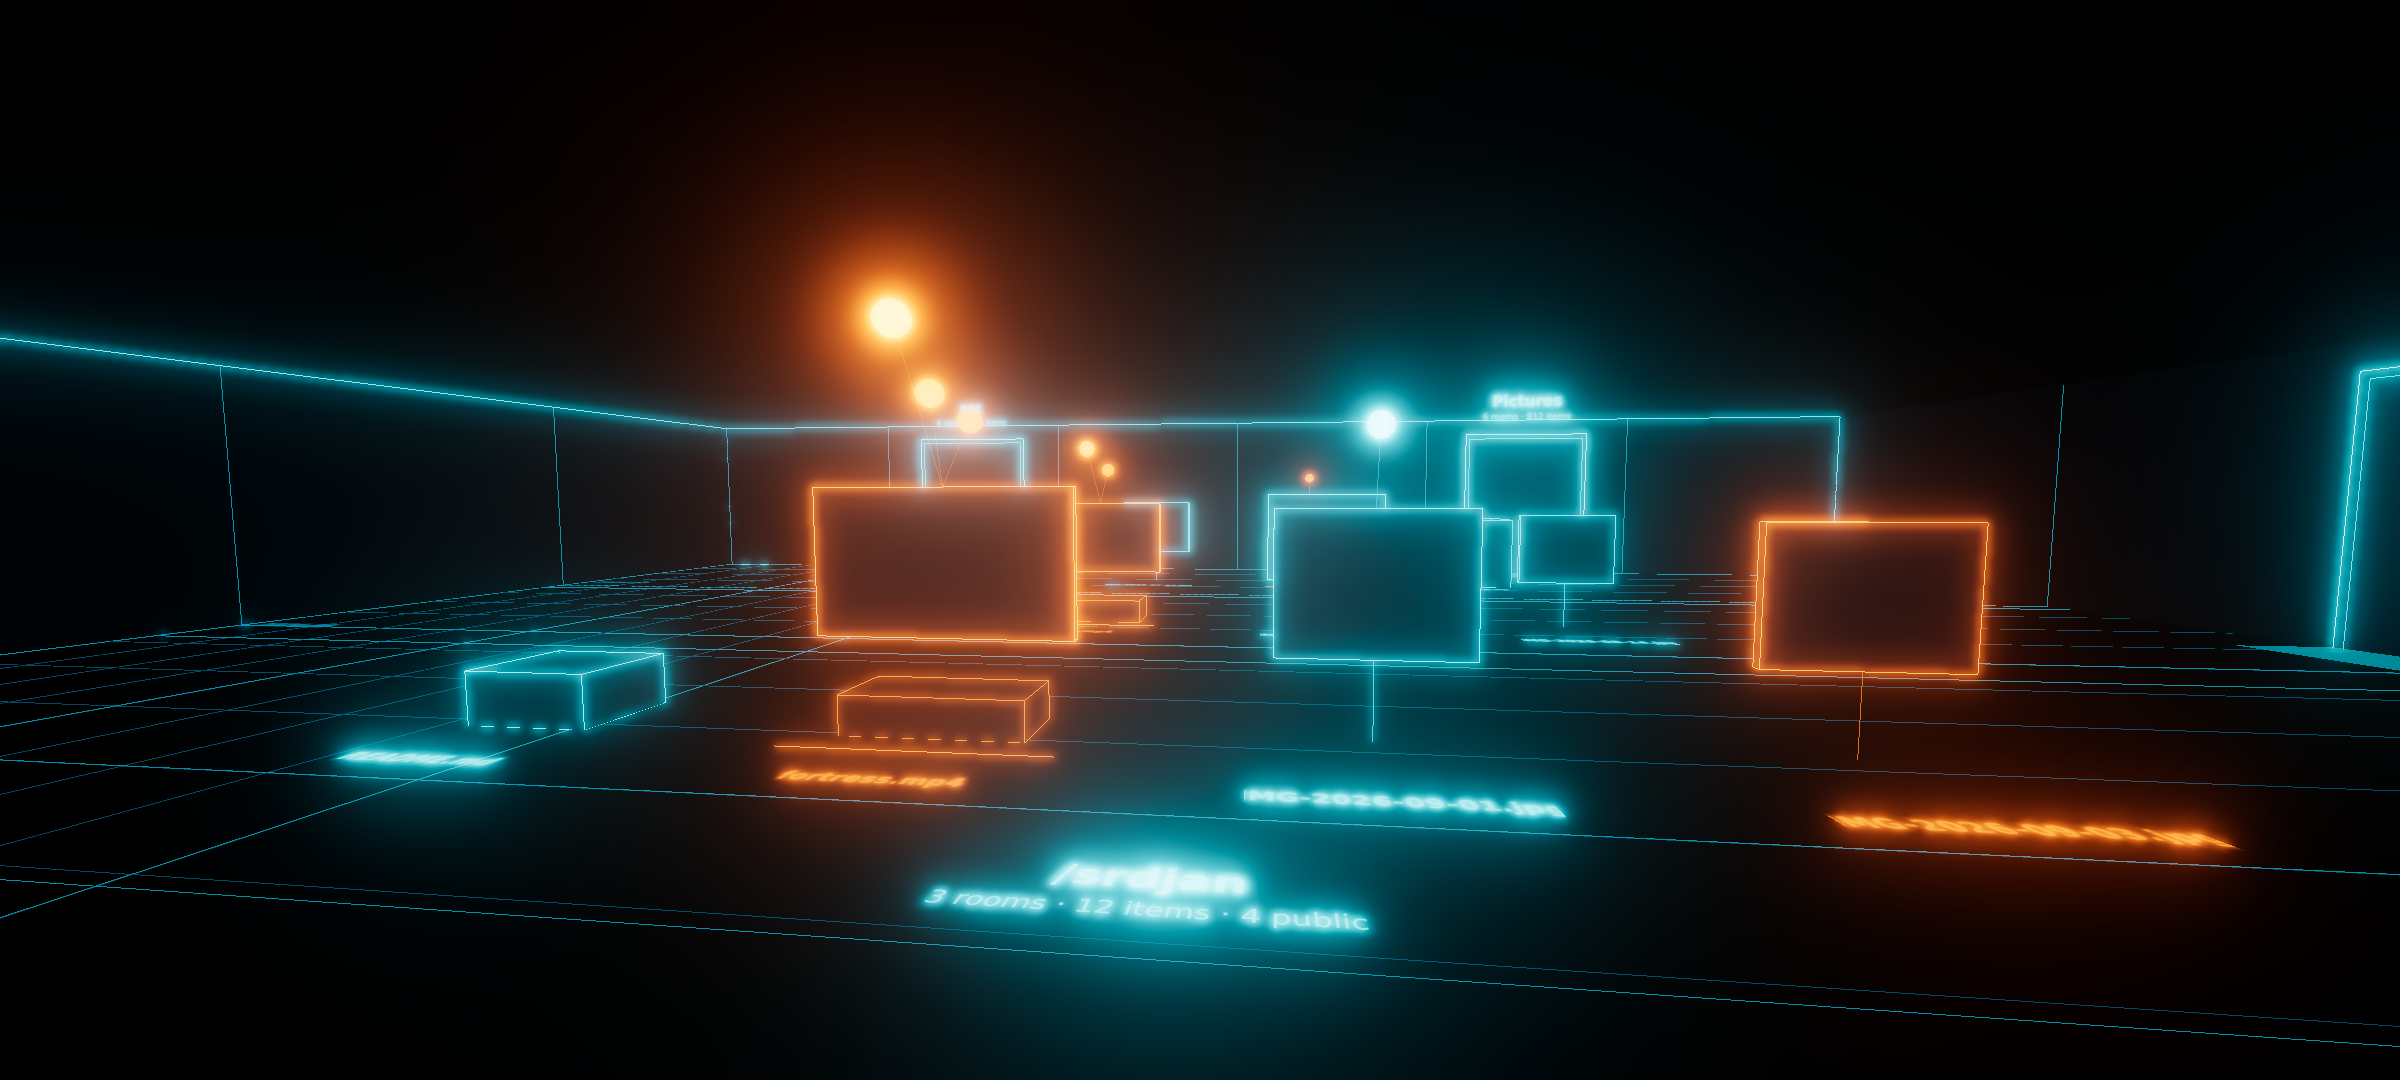
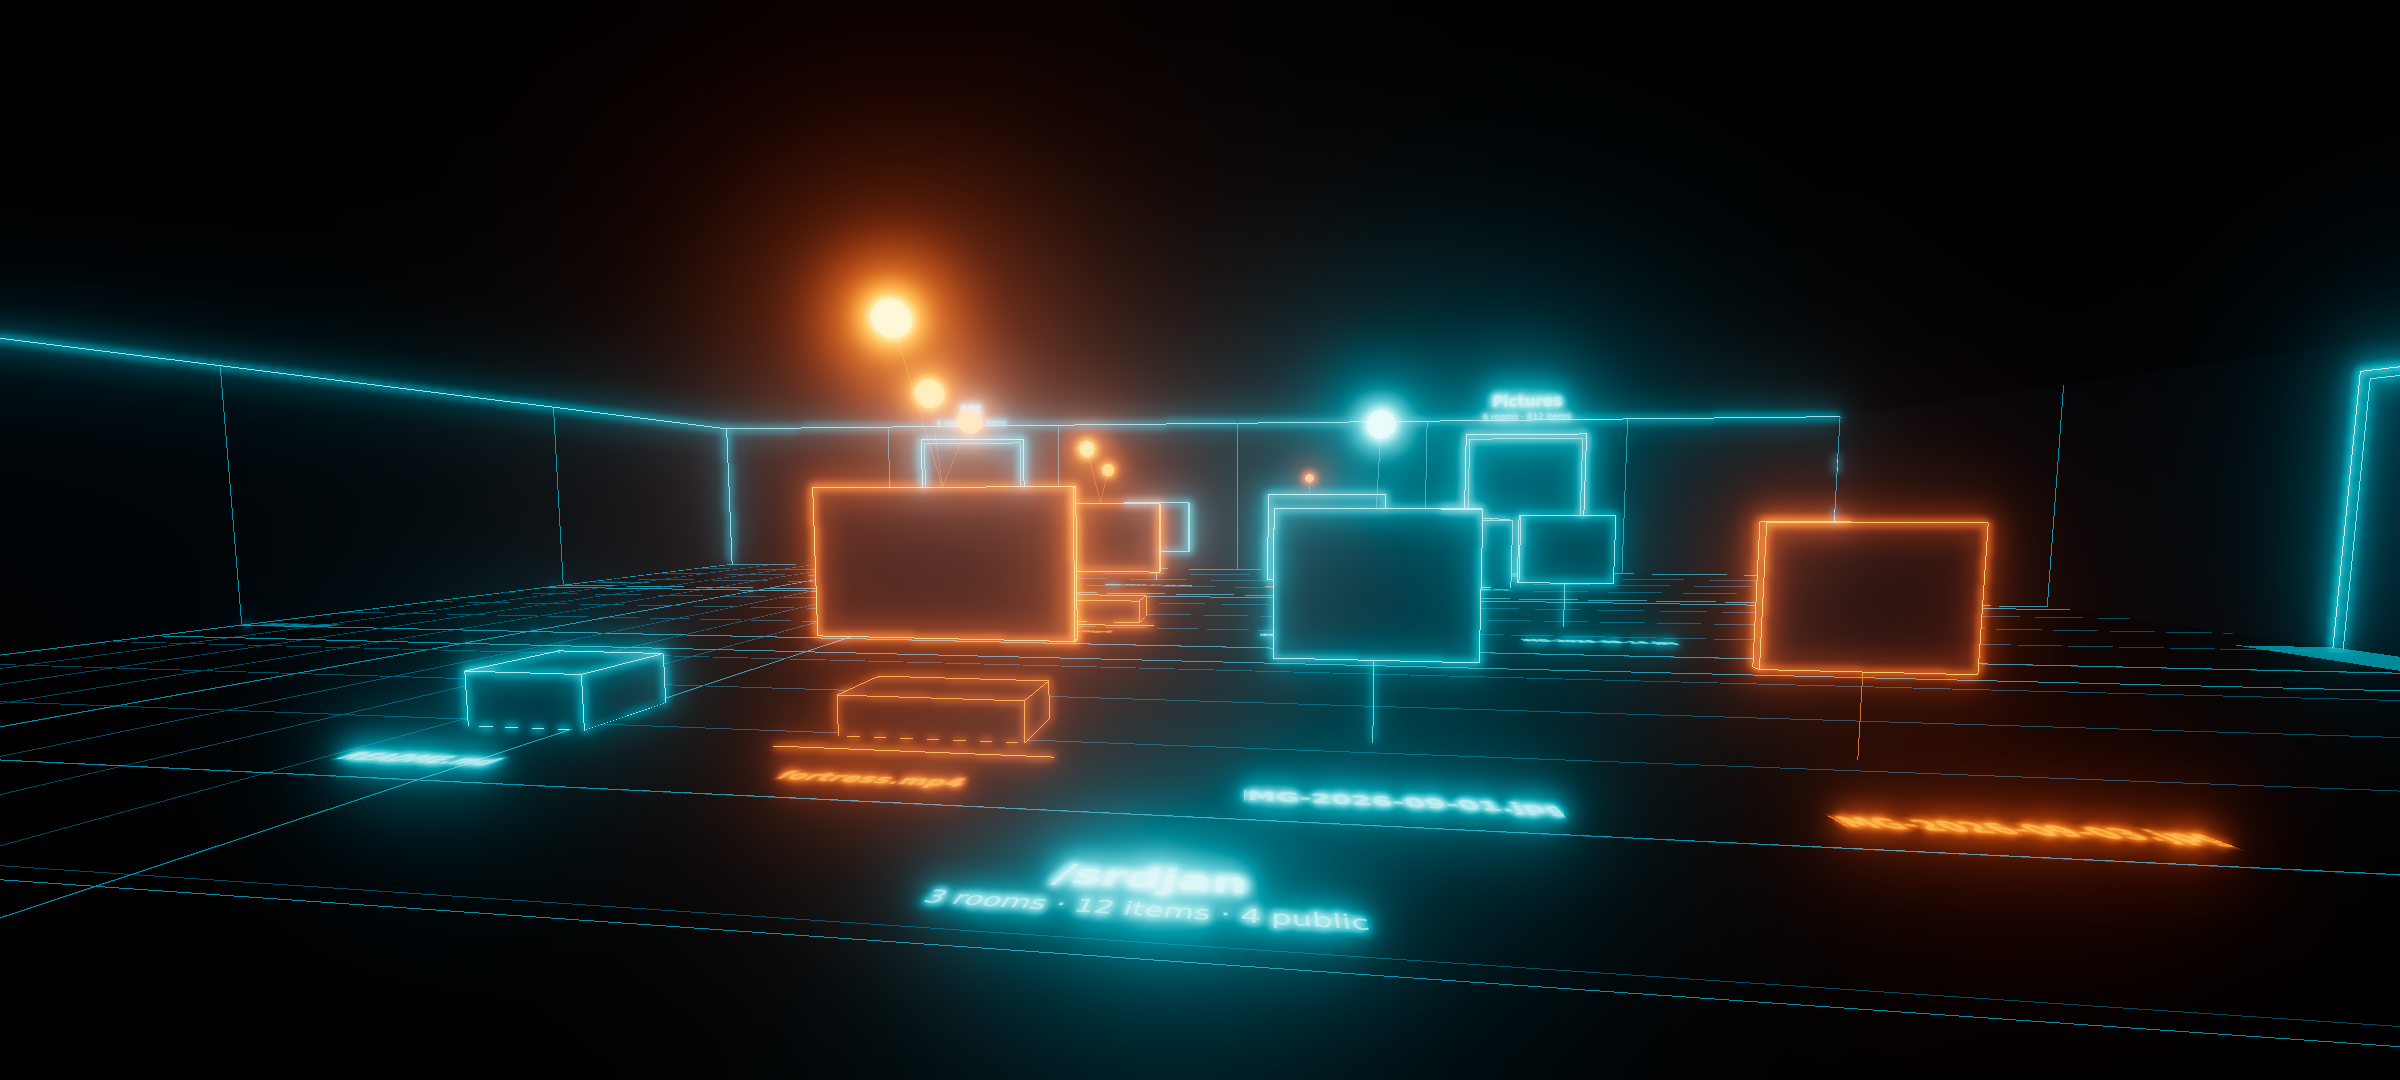
Make the prototype runnable locally with walk and look controls
Adds a static server script and npm start, plus first-person controls
in the default world scene: drag to look, WASD or arrows to walk, and
a touch stick on the left half of the screen. The render loop now runs
continuously; the screenshot script still waits for the ready flag.

Claude-Session: https://claude.ai/code/session_01GyWjRg73JoJTmu3JobxKiQ

Changed region(s): [[0.2812, 0.3972, 0.3438, 0.55], [0.75, 0.3667, 0.7812, 0.4889], [0.5938, 0.4583, 0.625, 0.4889]]

diff --git a/prototype/default-world.html b/prototype/default-world.html
@@ -60,8 +60,9 @@ scene.background = new THREE.Color(0x000000);
 scene.fog = new THREE.Fog(0x000000, 8, 46);
 
 const camera = new THREE.PerspectiveCamera(75, W / H, 0.05, 200);
+camera.rotation.order = 'YXZ';
 camera.position.set(0.8, 1.6, -0.6);
-camera.lookAt(-0.4, 0.9, -12);
+let yaw = Math.atan2(1.2, 11.4), pitch = -Math.asin(0.7 / 11.5);
 
 // room bounds: x in [-12,12], z in [0,-16], door wall at z=0 (behind the camera)
 const RW = 24, RD = 16, RH = 3.2;
@@ -224,10 +225,50 @@ const bloom = new UnrealBloomPass(new THREE.Vector2(W, H), 0.9, 0.55, 0.15);
 composer.addPass(bloom);
 composer.addPass(new OutputPass());
 
+// ---------- controls: drag to look, WASD / arrows to walk, touch stick on the left half ----------
+const keys = new Set();
+addEventListener('keydown', e => keys.add(e.code));
+addEventListener('keyup', e => keys.delete(e.code));
+const cv = renderer.domElement;
+let look = null, stick = null;
+cv.addEventListener('pointerdown', e => {
+  cv.setPointerCapture(e.pointerId);
+  if (e.pointerType === 'touch' && e.clientX < W / 2) stick = { id: e.pointerId, x0: e.clientX, y0: e.clientY, dx: 0, dy: 0 };
+  else look = { id: e.pointerId, x: e.clientX, y: e.clientY };
+});
+cv.addEventListener('pointermove', e => {
+  if (look && e.pointerId === look.id) {
+    yaw -= (e.clientX - look.x) * 0.0035; pitch -= (e.clientY - look.y) * 0.0035;
+    pitch = Math.max(-1.3, Math.min(1.3, pitch)); look.x = e.clientX; look.y = e.clientY;
+  }
+  if (stick && e.pointerId === stick.id) { stick.dx = (e.clientX - stick.x0) / 80; stick.dy = (e.clientY - stick.y0) / 80; }
+});
+const release = e => { if (look && e.pointerId === look.id) look = null; if (stick && e.pointerId === stick.id) stick = null; };
+cv.addEventListener('pointerup', release); cv.addEventListener('pointercancel', release);
+cv.addEventListener('contextmenu', e => e.preventDefault());
+addEventListener('resize', () => { camera.aspect = innerWidth / innerHeight; camera.updateProjectionMatrix(); renderer.setSize(innerWidth, innerHeight); composer.setSize(innerWidth, innerHeight); });
+
+const clock = new THREE.Clock();
+function step(dt) {
+  let f = 0, r = 0;
+  if (keys.has('KeyW') || keys.has('ArrowUp')) f += 1;
+  if (keys.has('KeyS') || keys.has('ArrowDown')) f -= 1;
+  if (keys.has('KeyD') || keys.has('ArrowRight')) r += 1;
+  if (keys.has('KeyA') || keys.has('ArrowLeft')) r -= 1;
+  if (stick) { f -= Math.max(-1, Math.min(1, stick.dy)); r += Math.max(-1, Math.min(1, stick.dx)); }
+  const speed = 3.5 * dt;
+  camera.position.x += (-Math.sin(yaw) * f + Math.cos(yaw) * r) * speed;
+  camera.position.z += (-Math.cos(yaw) * f - Math.sin(yaw) * r) * speed;
+  camera.position.x = Math.max(-RW / 2 + 0.4, Math.min(RW / 2 - 0.4, camera.position.x));
+  camera.position.z = Math.max(-RD + 0.4, Math.min(-0.4, camera.position.z));
+  camera.rotation.set(pitch, yaw, 0);
+}
+
 let frames = 0;
 function loop() {
+  step(Math.min(clock.getDelta(), 0.05));
   composer.render();
-  if (++frames >= 3) { window.__done = true; return; }
+  if (++frames === 3) window.__done = true;   // screenshot.mjs waits for this
   requestAnimationFrame(loop);
 }
 loop();
